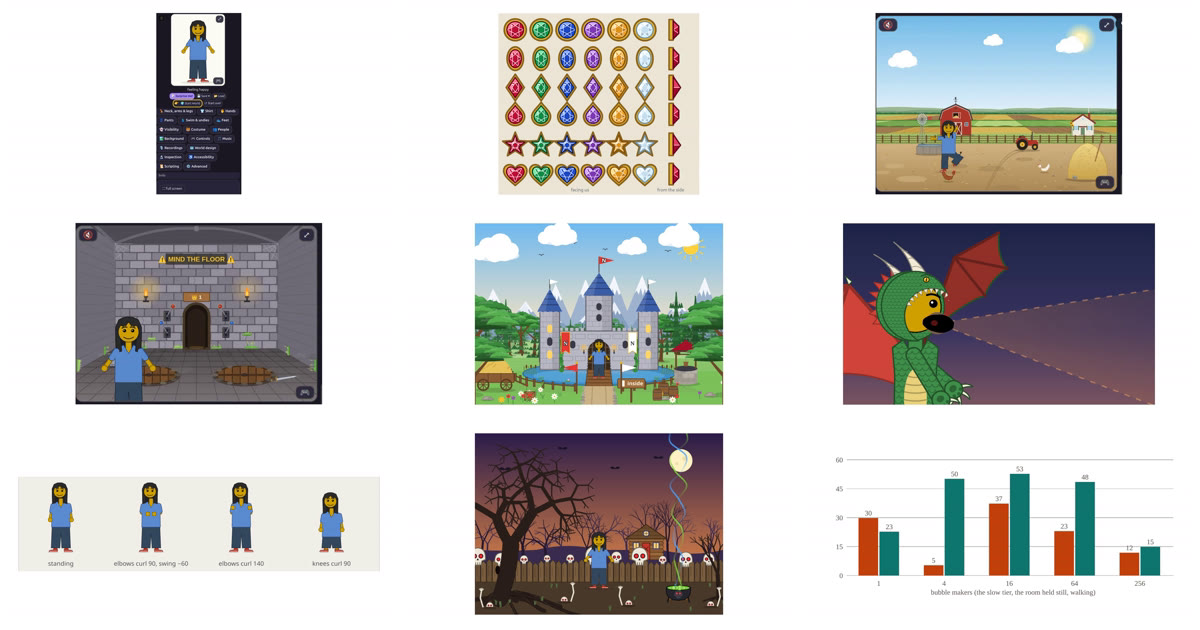
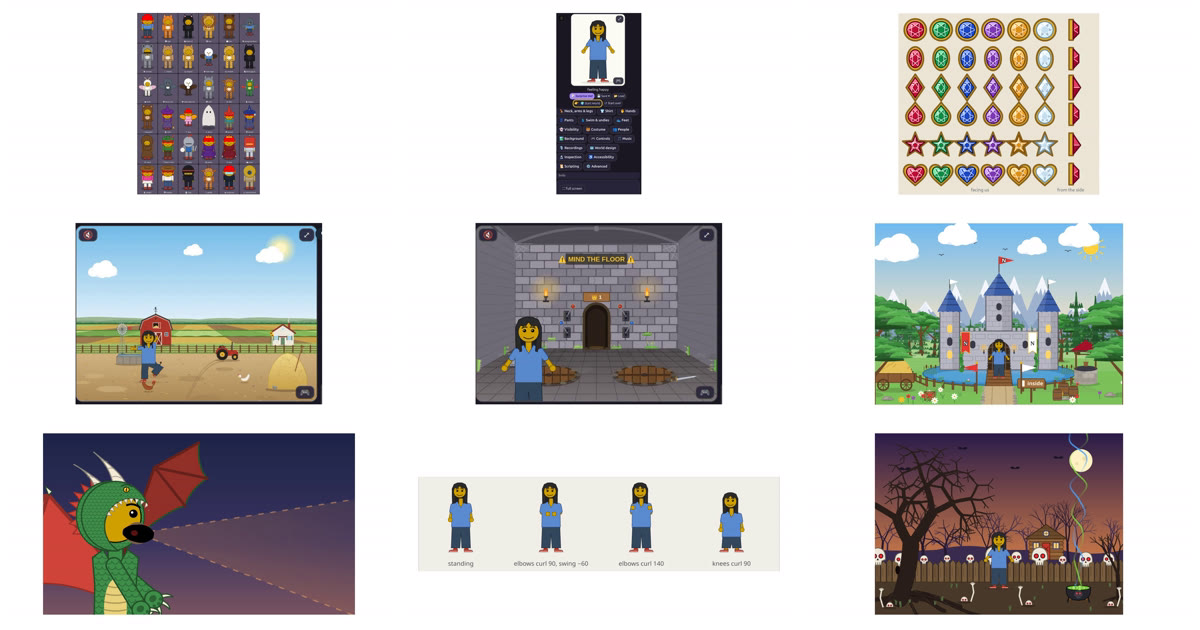
^du_report(21), Dungeons, From Above: published as work in progress
The dungeon room, the four kinds of way, and the friend from above and asleep
in all 36 costumes, on sheets drawn by the game (0.0.452).

diff --git a/dress-up/reports/021/index.html b/dress-up/reports/021/index.html
@@ -1,0 +1,144 @@
+<!doctype html>
+<html lang="en">
+<head>
+<meta charset="utf-8">
+<!-- nav: begin --><meta name="theme-support" content="data-theme"><script src="https://matthewhammer.org/nav/nav.js"></script><!-- nav: end -->
+<script>try { var t = localStorage.getItem("theme"); if (t === "light" || t === "dark") document.documentElement.setAttribute("data-theme", t); } catch (e) {}</script>
+<meta name="viewport" content="width=device-width, initial-scale=1">
+<title>Dungeons, From Above</title>
+<!-- og: begin (tools/og_previews.py in matthewhammer.github.io: the link preview's text and picture) -->
+<meta property="og:type" content="article">
+<meta property="og:title" content="Dungeons, From Above">
+<meta property="og:description" content="A day of design work after A Link to the Past: a dungeon room seen from above, four kinds of way between its rooms (a wall, a doorway, a doorway that scrolls, no wall), holes and ledges; and the friend drawn from above and asleep in the tent, in all 36 costumes, each costume and view on sheets…">
+<meta property="og:url" content="https://matthewhammer.org/kids-choice-games/dress-up/reports/021/">
+<meta property="og:image" content="https://matthewhammer.org/kids-choice-games/dress-up/reports/021/og.png">
+<meta property="og:image:width" content="1200">
+<meta property="og:image:height" content="630">
+<meta name="twitter:card" content="summary_large_image">
+<meta name="twitter:image" content="https://matthewhammer.org/kids-choice-games/dress-up/reports/021/og.png">
+<!-- og: end -->
+<style>
+  :root { --bg: #fbfaf7; --paper: #ffffff; --ink: #1f2328; --muted: #5b6470; --line: #e3e0d8; --accent: #6d28d9; --link: #1d4ed8; --wip: #b45309; --tip: #fff7d6; }
+  @media (prefers-color-scheme: dark) { :root:not([data-theme="light"]) { --bg: #15171a; --paper: #1d2024; --ink: #e8e6e3; --muted: #a2a9b3; --line: #33373d; --accent: #c4b5fd; --link: #93c5fd; --wip: #fbbf24; --tip: #2e2a1a; } }
+  :root[data-theme="dark"] { --bg: #15171a; --paper: #1d2024; --ink: #e8e6e3; --muted: #a2a9b3; --line: #33373d; --accent: #c4b5fd; --link: #93c5fd; --wip: #fbbf24; --tip: #2e2a1a; }
+  * { box-sizing: border-box; }
+  body { margin: 0; background: var(--bg); color: var(--ink); font: 17px/1.6 system-ui, "Segoe UI", Roboto, sans-serif; }
+  main { max-width: 820px; margin: 0 auto; padding: 32px 16px 80px; }
+  a { color: var(--link); }
+  .series { color: var(--muted); font-size: 0.9em; margin: 0; }
+  .wip { color: var(--wip); font-weight: 600; }
+  h1 { margin: 6px 0 4px; font-size: 2em; line-height: 1.2; }
+  .q { color: var(--muted); font-size: 1.1em; margin: 0 0 18px; }
+  h2 { margin: 40px 0 10px; padding-bottom: 4px; border-bottom: 2px solid var(--line); font-size: 1.35em; }
+  .box { background: var(--paper); border: 1px solid var(--line); border-left: 5px solid var(--accent); border-radius: 10px; padding: 12px 16px; margin: 16px 0; }
+  .box.tip { background: var(--tip); border-left-color: var(--wip); }
+  .box p { margin: 6px 0; }
+  .shots { display: grid; grid-template-columns: repeat(auto-fit, minmax(220px, 1fr)); gap: 14px; margin: 18px 0; }
+  figure { margin: 0; background: var(--paper); border: 1px solid var(--line); border-radius: 10px; padding: 8px; }
+  figure img { display: block; width: 100%; height: auto; border-radius: 6px; }
+  figcaption { font-size: 0.85em; color: var(--muted); padding: 6px 2px 0; line-height: 1.4; }
+  .key { display: inline-block; border: 1px solid var(--line); border-radius: 10px; padding: 0 9px; font: 600 0.85em/1.6 system-ui, sans-serif; background: var(--paper); white-space: nowrap; }
+  table { width: 100%; border-collapse: collapse; font-size: 0.92em; }
+  th, td { border: 1px solid var(--line); padding: 6px 8px; text-align: left; vertical-align: top; }
+  th { background: var(--paper); }
+  .scroll { overflow-x: auto; }
+  code { font-family: ui-monospace, Menlo, monospace; font-size: 0.88em; }
+  ol li, ul li { margin: 4px 0; }
+  .log { font-size: 0.92em; color: var(--muted); }
+  button.theme { font: inherit; font-size: 0.8em; border: 1px solid var(--line); background: var(--paper); color: var(--muted); border-radius: 8px; padding: 1px 8px; cursor: pointer; position: fixed; top: 10px; right: 10px; }
+</style>
+<style>
+  .sheet { margin: 18px 0; }
+  .sheet img { display: block; width: 100%; height: auto; border-radius: 8px; border: 1px solid var(--line); }
+  .sheet figcaption { margin-top: 6px; }
+  .rooms { grid-template-columns: repeat(auto-fit, minmax(300px, 1fr)); }
+</style>
+</head>
+<body>
+<button class="theme" id="theme" title="Light or dark">◐ Auto</button>
+<main>
+<p class="series"><a href="../">Dress Up reports</a> · <a href="./"><code><b>^du_report(</b>21<b>)</b></code></a> · 2026-10-26 · <span class="wip">work in progress</span> · about <a href="https://matthewhammer.org/hazel/dress-up/">Messed Up Dress Up</a>, a game made with M and N · after <a href="../020/"><code><b>^du_report(</b>20<b>)</b></code></a></p>
+<h1>Dungeons, From Above</h1>
+<p class="q">A day of design work after A Link to the Past: a dungeon room seen from above, the ways between its rooms, holes and ledges, and the friend drawn from above and asleep, in every costume. Here is all of it, to look at in one place.</p>
+
+<div class="box">
+  <p><b>Short answers.</b> Ten releases in one day, 0.0.443 to 0.0.452, all live:</p>
+  <ul>
+    <li><b>A new kind of place, the 🗝 dungeon room.</b> A cave room seen from above, eight ways out, four looks. Four kinds of way between rooms: 🚫 wall, 🚪 doorway with a nav arrow, 🎞 doorway that scrolls, 🌫 no wall at all.</li>
+    <li><b>Two levels, and a floor below.</b> A ledge with stairs, and holes that drop the friend into the world underneath.</li>
+    <li><b>The friend from above.</b> Its own drawing, now in all 36 costumes and nearly all of the friend's settings. In the morning it drew 9 of about 125 settings and no costume.</li>
+    <li><b>Asleep in the tent,</b> the same: all 36 costumes; about 20 settings and no costume before.</li>
+  </ul>
+  <p>Everything below is drawn by the game itself (the same drawing code, its pictures saved), in the default friend, each costume with its own colours.</p>
+</div>
+
+<h2>The dungeon room <span class="series">(0.0.443 – 0.0.449; ^ticket(621), ^ticket(622), ^ticket(623))</span></h2>
+<p>A floor of tiles; the north wall's bricks across the top with two torches; the side and south walls seen from above. Each of its eight ways that leads somewhere is an opening: a gap in a wall's middle, or a tunnel off at a corner. Each way that does not is wall, with something where a door would be: a carved stone in the north wall, a pair of pots in a corner. So any set of passages looks like a room that was built that way. Its looks are the cave crossing's: 🪨 stone, 💎 crystal, 🌿 moss, 🧊 ice. It has a group of its own at the bottom of the list of places, 🗝 dungeons.</p>
+<div class="shots rooms">
+  <figure><img src="pictures/dungeon-eight-ways.webp" alt="A grey stone dungeon room with all eight ways open: gaps in each wall and tunnels at the four corners; a knight from above in the middle"><figcaption>All eight ways open, in grey stone: a gap in each wall, a tunnel at each corner. The 🛡 knight, from above.</figcaption></figure>
+  <figure><img src="pictures/dungeon-ledge-hole.webp" alt="A crystal dungeon room with a raised ledge across its back, stairs in the middle, a hole in the floor below; a witch with her broom on the ledge"><figcaption>💎 crystal, with a 🧱 ledge across the back (stairs in the middle, its face a wall the friend cannot walk through) and a 🕳 hole to the floor below. The 🧙 witch, with her broom, up on the ledge.</figcaption></figure>
+  <figure><img src="pictures/dungeon-no-wall.webp" alt="A mossy dungeon room whose east wall is missing, the floor running on to the picture's edge; a dragon walking toward it"><figcaption>🌿 moss, its east side with 🌫 no wall: the floor runs on, and the 🐉 dragon runs into the next room without stopping.</figcaption></figure>
+  <figure><img src="pictures/dungeon-ice.webp" alt="An icy dungeon room with one way out, south; pots in its corners and a carved stone in the north wall; a wizard with his staff"><figcaption>🧊 ice, one way out (south): the carved stone and the pots where the others would be. The 🧙♂ wizard with his staff.</figcaption></figure>
+</div>
+
+<h2>Four kinds of way</h2>
+<p>In 🗺 World design, each way out of a dungeon room (or a cave crossing) has its chips; choosing one makes the room beside it agree.</p>
+<div class="scroll"><table>
+  <tr><th>Chip</th><th>What it is</th><th>What happens</th><th>Since</th></tr>
+  <tr><td>🚫</td><td>wall</td><td>No way: wall, or stones in a cave crossing.</td><td>0.0.443</td></tr>
+  <tr><td>🚪</td><td>a doorway with a nav arrow</td><td>The friend walks to the doorway and steps through; the next room fades in. As every other place in the game.</td><td>0.0.443</td></tr>
+  <tr><td>🎞</td><td>a doorway that scrolls</td><td>As A Link to the Past goes from screen to screen: at the doorway the room slides away and the next slides in, diagonals too.</td><td>0.0.442</td></tr>
+  <tr><td>🌫</td><td>no wall</td><td>That side of both rooms is not there. The friend runs from one room into the next, the rooms sliding faster, and comes out at the same height (or the same place across) they crossed at. North, east, south or west, between two dungeon rooms.</td><td>0.0.448</td></tr>
+</table></div>
+<p>Also in the room, in World design: <b>🧱 a ledge</b> (none, stairs in the middle, stairs at both ends), <b>🕳 a hole</b> (left, middle or right), and a world's <b>⬇ floor below</b>, another world square for square: walking onto the hole drops the friend into the room underneath, at the same spot, and ⬅ back brings them up. With nothing underneath, the hole has a grate over it.</p>
+
+<h2>The friend from above, in every costume <span class="series">(0.0.443, 0.0.451; ^ticket(626))</span></h2>
+<p>A dungeon seen from above needs the friend seen from above too: a drawing of its own, not the standing friend squashed. The head big and seen mostly from its top, the hair over it, the body short below it, the legs shorter still; facing us, away, or to a side, and stepping as it walks.</p>
+<p><b>How much of the friend it draws.</b> The friend has about 125 settings for how it looks (face 47, hair 9, shirt 8, pants 6, shoes 7, hands 14, undies 7, see-through 8, the body's shape about 10), and 36 costumes with about 190 settings of their own.</p>
+<div class="scroll"><table>
+  <tr><th>View</th><th>Before (0.0.443)</th><th>Now</th></tr>
+  <tr><td>From above (dungeon room)</td><td>9 settings: skin, hair colour, style and length, shirt colour, pants colour and skirt or not, shoe colour, facing. No costume.</td><td>Every costume: its clothes and their patterns, a suit's fur, ears and tail, wings, the hat, hood, helmet or crown, a cape or a mantle, what it carries. And the friend's own: hand and foot styles, the arms' and legs' lengths and widths, the head's size, the eyes' size and kind (closed, ✕, stars, hearts), ears, mouth, all seven hair styles with length and bangs, beards, see-through.</td></tr>
+  <tr><td>Asleep in the tent</td><td>About 20: those, with the sleeves, hair style and bangs, see-through. No costume.</td><td>Every costume, as one asleep has it (below), and the same settings of the friend's own.</td></tr>
+</table></div>
+<p>Not drawn in these two views yet: the face's finer settings (brows, nose, tongue, teeth, the eyes' shine), the undies, and a friend on a horse.</p>
+<figure class="sheet"><a href="pictures/topdown-front.webp"><img src="pictures/topdown-front.webp" alt="36 costumes drawn from above, facing us"></a><figcaption>All 36 costumes from above, facing us (tap to see it whole).</figcaption></figure>
+<figure class="sheet"><a href="pictures/topdown-right.webp"><img src="pictures/topdown-right.webp" alt="36 costumes drawn from above, facing right"></a><figcaption>Facing to a side: the face's half that way, the tail and the wings behind.</figcaption></figure>
+<figure class="sheet"><a href="pictures/topdown-back.webp"><img src="pictures/topdown-back.webp" alt="36 costumes drawn from above, facing away"></a><figcaption>Facing away: the back of the head, capes, quivers and tanks, tails over the body.</figcaption></figure>
+
+<h2>Asleep in the tent, in every costume <span class="series">(0.0.452; ^ticket(627))</span></h2>
+<p>Lying along a sleeping bag (ticket 412's own view of the friend) wears every costume now, as one asleep would: a hat or a helmet taken off and lying by the pillow; what the costume carries (a broom, a staff, a sword, a bow, a scepter) beside the bag; wings or a royal mantle spread underneath; a suit's tail out on the bag; a monk's hood kept up, a robot's head, a ninja's mask; the ghost, a sheet over it all.</p>
+<figure class="sheet"><a href="pictures/asleep.webp"><img src="pictures/asleep.webp" alt="36 costumes, each lying along a sleeping bag"></a><figcaption>All 36 asleep (the bag itself left out, so the friend shows).</figcaption></figure>
+
+<h2>For comparison: standing</h2>
+<p>The same 36, as the game has always drawn them, standing and facing us. The views above are drawn to match these: the same colours, patterns and things, seen another way.</p>
+<figure class="sheet"><a href="pictures/standing.webp"><img src="pictures/standing.webp" alt="36 costumes standing, facing us"></a><figcaption>All 36 standing.</figcaption></figure>
+
+<h2>How it is built</h2>
+<ul>
+  <li><b>One look, three views.</b> The game already turns each costume into the shirt and pants it wears (<code>COSTUME_CLOTHES</code>, ^ticket(564)) and an animal suit into its fur. Both new views take those, and the standing drawing's own pattern fills, so a costume's clothes come out right in every view at once.</li>
+  <li><b>What is left, a table each.</b> Only what a costume has besides clothes is drawn per costume: from above (<code>TD_GEAR</code>) its hat, hood, helmet or crown, cape, wings, tail and what it holds; asleep (<code>LIE_GEAR</code>) the same things as one asleep has them. A new costume adds one entry to each.</li>
+  <li><b>Checked by drawing all of them.</b> Each sheet here is one run over all 36 costumes; none failed to draw.</li>
+</ul>
+
+<h2>Not done yet</h2>
+<ul>
+  <li><b>Scrolling's speed on the iPad.</b> The 🧪 page has two passes for it (walking in a dungeon room; scrolling to the next room and back). A run on M's iPad says whether the slide keeps up.</li>
+  <li>^ticket(624): the other poses from above (sitting, dancing, the animations), and ^ticket(625): stairs up to the floor above, and hopping down off a ledge.</li>
+  <li>^ticket(628): a new costume, 🗡 the Time Wanderer: green tunic and pointed cap, belt, boots, sword and shield.</li>
+  <li>^ticket(629): picking up a pot and holding it overhead (the action press), and throwing it (a press of its own).</li>
+  <li>^ticket(630): the dungeon room's own settings: the stone's shade, moss and mushrooms (how much, five kinds each), and cracks different in each room.</li>
+  <li>^ticket(631): treasure chests, opened with the action press: World design chooses a recording, what comes out (12 things) and a flourish (8 new tunes), with A Link to the Past's moment of holding it up.</li>
+  <li>^ticket(632): a 🎒 backpack tab, a panel for each thing carried, and the backpack drawn on the friend.</li>
+</ul>
+
+<h2>Updates</h2>
+<p class="log">2026-10-26: first draft, published as a work in progress for Matthew's review. Pictures drawn by the game (0.0.452) and saved from it: the sheets at 1320 to 1680 pixels wide, the rooms at 1200.</p>
+</main>
+<script>
+  (function () { const b = document.getElementById("theme"), order = ["auto", "light", "dark"], label = { auto: "◐ Auto", light: "☀ Light", dark: "☾ Dark" };
+    let t; try { t = localStorage.getItem("theme") || "auto"; } catch (e) { t = "auto"; }
+    const set = v => { t = v; if (v === "auto") document.documentElement.removeAttribute("data-theme"); else document.documentElement.setAttribute("data-theme", v); b.textContent = label[v]; try { if (v === "auto") localStorage.removeItem("theme"); else localStorage.setItem("theme", v); } catch (e) {} };
+    set(t); b.addEventListener("click", () => set(order[(order.indexOf(t) + 1) % 3])); })();
+</script>
+</body>
+</html>

diff --git a/dress-up/reports/index.html b/dress-up/reports/index.html
@@ -40,6 +40,9 @@
 <main>
 <h1>Dress Up reports</h1>
 <p class="sub">Reports on <a href="https://matthewhammer.org/hazel/dress-up/">Messed Up Dress Up</a>, the game made with M and N, now a hybrid: JavaScript, with Hazel as the scripting language for its game logic (by default; Fumola beside it for comparison), where features are tried with real players before they are rebuilt as livelits in Hazel. Each report takes one question and answers it with measurements. The first rule they measure: 60 frames a second for everything a game controller does. (Hazel's own series is the <a href="https://matthewhammer.org/hazel/reports/">Hazel reports</a>.)</p>
+<a class="card" href="021/"><img class="thumb pic" src="021/pictures/topdown-front.webp" alt="" aria-hidden="true">
+<div><div class="n"><code><b>^du_report(</b>21<b>)</b></code> · 2026-10-26 · <span class="wip" style="color:#b45309;font-weight:600">work in progress</span></div><div class="h">Dungeons, From Above</div>
+<div class="q">A day of design work after A Link to the Past: a dungeon room seen from above, four kinds of way between its rooms (a wall, a doorway, a doorway that scrolls, no wall), holes and ledges; and the friend drawn from above and asleep in the tent, in all 36 costumes, each costume and view on sheets to look at. From ^ticket(621) to ^ticket(627).</div></div></a>
 <a class="card" href="020/"><img class="thumb pic" src="020/pictures/first.webp" alt="" aria-hidden="true">
 <div><div class="n"><code><b>^du_report(</b>20<b>)</b></code> · 2026-10-25 · <span class="wip" style="color:#b45309;font-weight:600">work in progress</span></div><div class="h">A way in</div>
 <div class="q">A new player on a phone: how do they find the game's world, and know what to do in it? Why a friend got lost, and the first step: 🌍 Start World, a pointing hand on it, and a welcome saying what the game is for now.</div></div></a>
